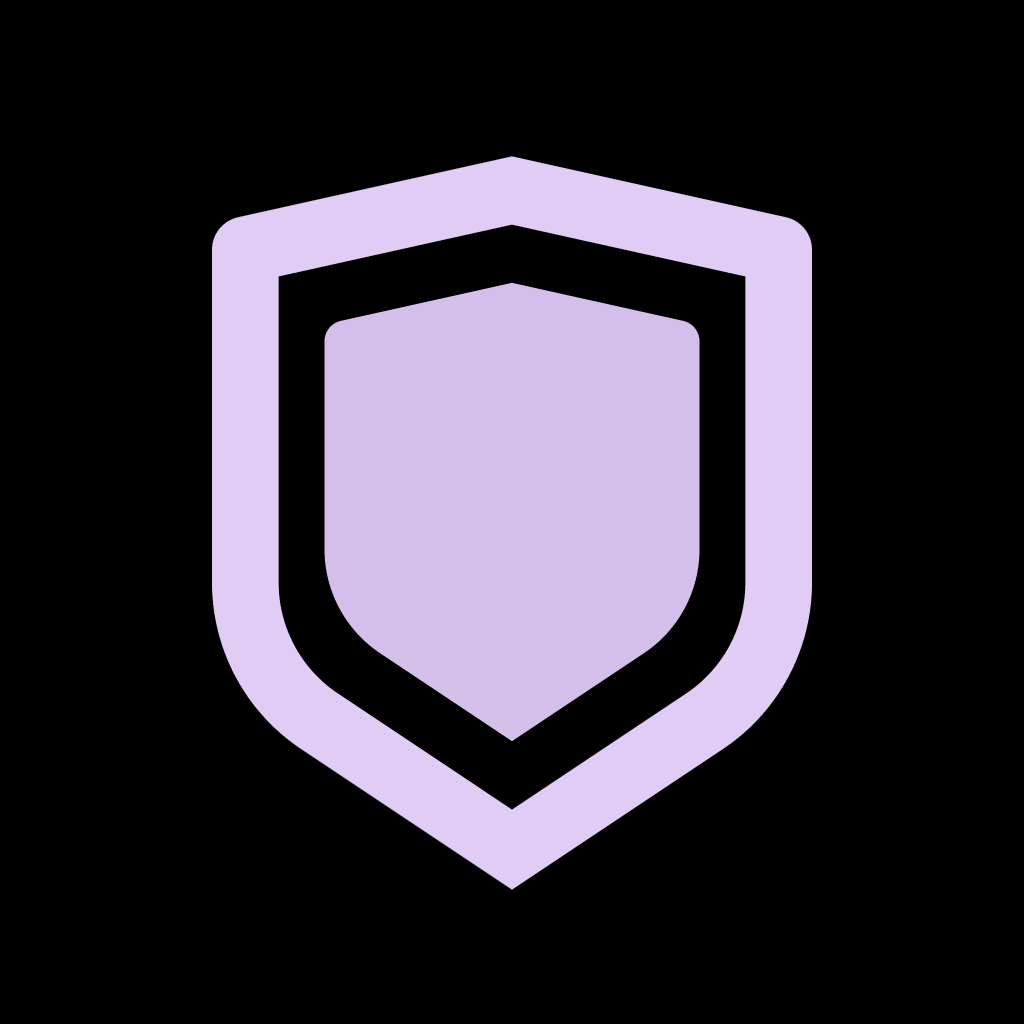
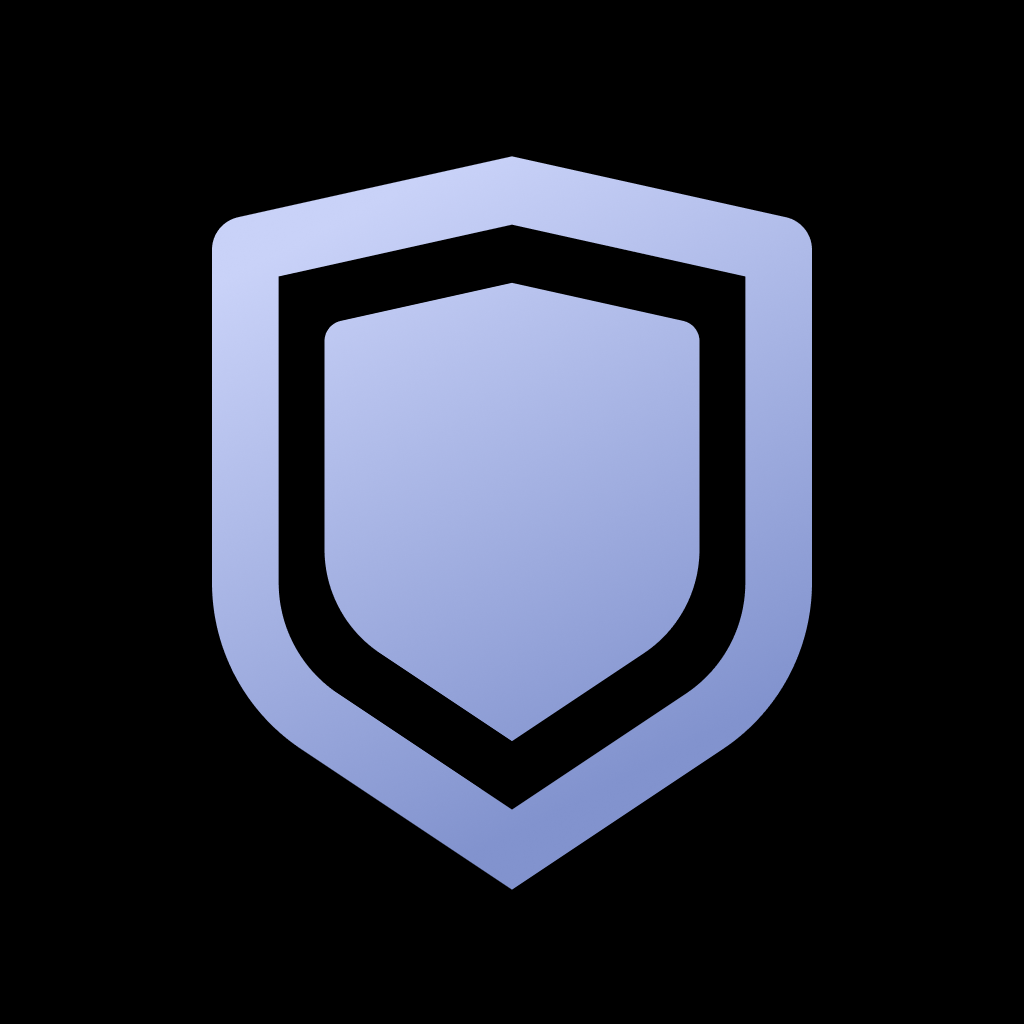
fix: branding and assets redesign

Changed region(s): [[0.1875, 0.1562, 0.8125, 0.875], [0.3125, 0.2812, 0.6875, 0.7188]]

diff --git a/app.config.ts b/app.config.ts
@@ -3,7 +3,7 @@ import { ExpoConfig } from 'expo/config';
 const IS_DEV = process.env.APP_VARIANT === 'development';
 
 export default (): ExpoConfig => ({
-  name: IS_DEV ? 'Voluntra (Dev)' : 'Voluntra',
+  name: IS_DEV ? 'Storm Shield (Dev)' : 'Storm',
   slug: 'voluntra',
   version: '1.0.0',
   orientation: 'portrait',
